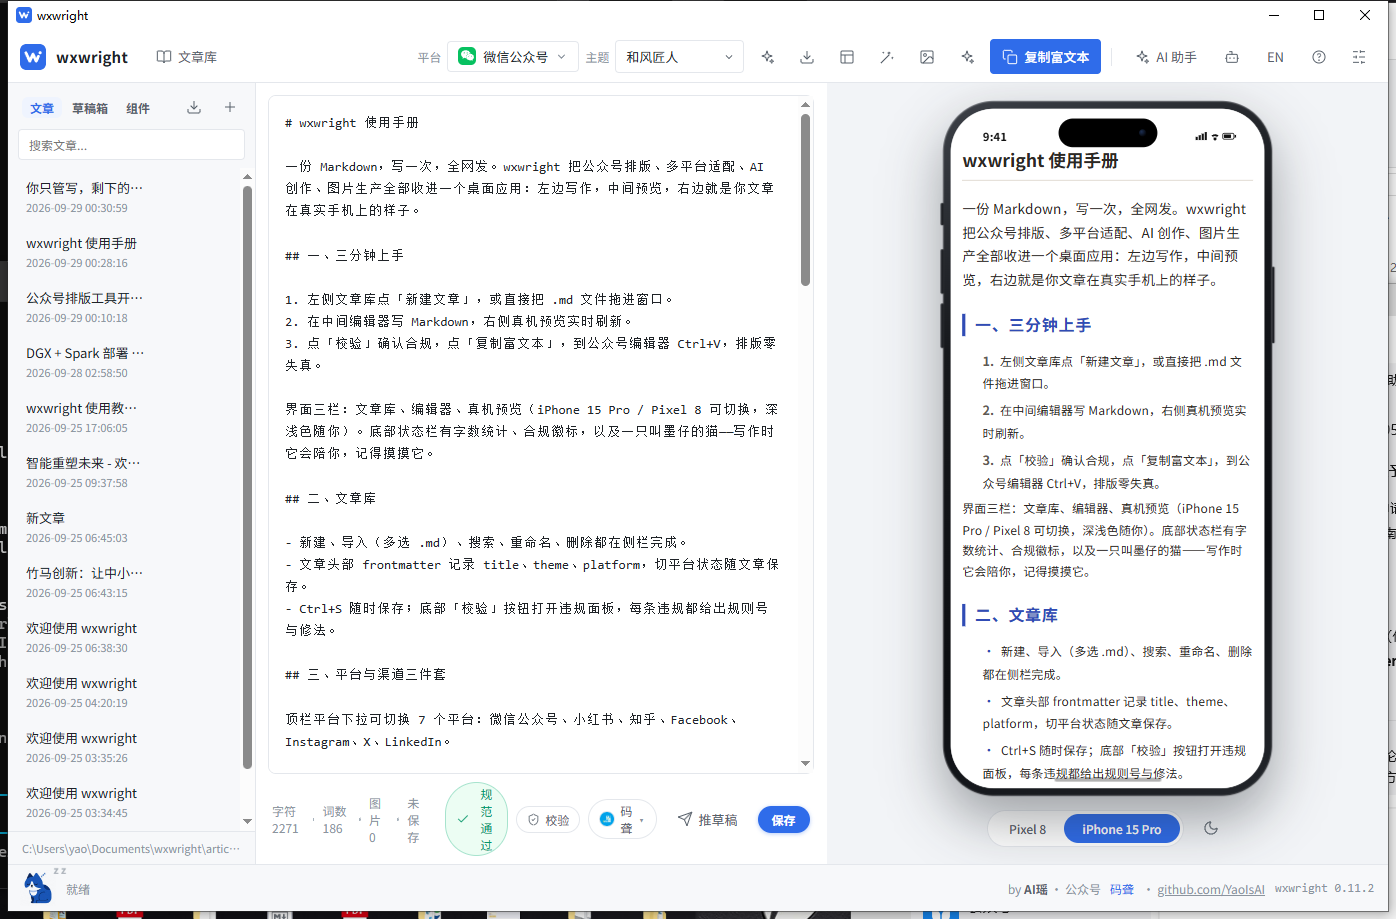
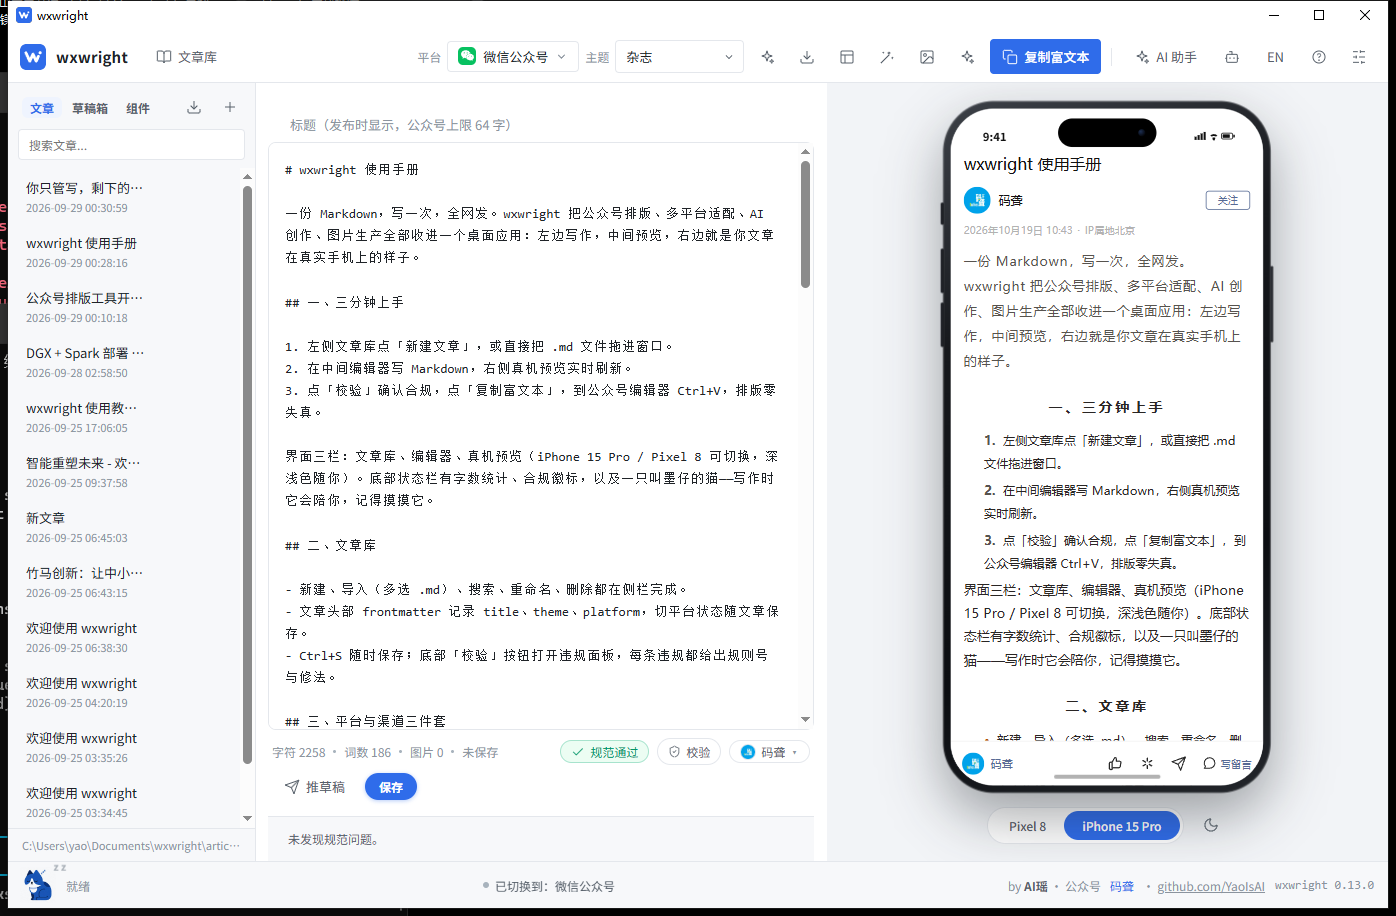
feat: 1:1 WeChat article mock - title header, account row, engagement bar (v0.14.0)
- the WeChat phone preview now renders the real article page: title,
  account row (bound avatar + nickname, author slot, Follow), publish
  time + IP line, body, and the fixed bar with logo/name left and
  like / recommend / share / write-comment right
- title dedup: a first H1 equal to the title field drops from the
  preview source only, so the title never shows twice
- Xiaohongshu gains the comment block, edited-date/IP line and the full
  bottom action row; Instagram gains carousel dots
- stale preview conversions can no longer paint: each conversion is
  sequenced and a superseded result is discarded
- demo mode renders through the same article shell; platform-xhs.png
  and hero.png retaken

diff --git a/gui/ui/app.js b/gui/ui/app.js
@@ -9,7 +9,7 @@ const listen = window.__TAURI__ ? window.__TAURI__.event.listen : null;
 
 /// GUI version - the single frontend source of truth (about lines + status
 /// bar). Bump together with Cargo.toml and tauri.conf.json.
-const GUI_VERSION = "0.13.0";
+const GUI_VERSION = "0.14.0";
 
 /* ------------------------------------------------------------------ i18n */
 const I18N = {
@@ -460,26 +460,93 @@ function applyI18n() {
 }
 
 /* -------------------------------------------------------------- preview */
-function wrapPreviewHtml(dialect) {
+/// Real current time in the MP article format ("2026年10月18日 08:30").
+function wxArticleDate() {
+  const d = new Date();
+  const pad = (n) => String(n).padStart(2, "0");
+  const hm = `${pad(d.getHours())}:${pad(d.getMinutes())}`;
+  return lang === "zh-CN"
+    ? `${d.getFullYear()}年${d.getMonth() + 1}月${d.getDate()}日 ${hm}`
+    : `${d.toLocaleDateString("en-US", { year: "numeric", month: "short", day: "numeric" })} ${hm}`;
+}
+/// Identity of the active WeChat account for the article shell (real nickname
+/// + avatar when bound, sample persona otherwise).
+function wxShellIdentity() {
+  const acc = ((wxStatusCache && wxStatusCache.accounts) || []).find((a) => a.active);
+  if (!acc) return null;
+  return { name: accountDisplayName(acc), avatar: acc.avatar || null };
+}
+/// The article shell renders the title as the page header; a first H1 that
+/// repeats it would show twice. Drop that line from the PREVIEW source only
+/// (stats and saved markdown keep every character).
+function previewMarkdown(md) {
+  const title = (currentTitle() || "").trim();
+  if (!title) return md;
+  const m = md.match(/^[ \t]*#[ \t]+([^\n]+)\r?\n?/);
+  if (m && m[1].trim() === title) {
+    return md.slice(0, m.index) + md.slice(m.index + m[0].length);
+  }
+  return md;
+}
+function wrapPreviewHtml(dialect, meta = {}) {
+  const S = shellStr();
+  const id = wxShellIdentity();
+  const name = meta.account || (id && id.name) || S.persona;
+  const avatarSrc = meta.avatar || (id && id.avatar) || null;
+  const avatar = (size) =>
+    avatarSrc
+      ? `<img src="${avatarSrc}" alt="" style="flex:none;width:${size}px;height:${size}px;border-radius:50%;object-fit:cover;" />`
+      : shellAvatar(size);
   // one-shot landing pulse on the newest last block after AI insert/replace
   const pulse = aiLanding
-    ? `<style>
+    ? `
   @keyframes wxland{0%{box-shadow:inset 4px 0 0 0 var(--accent,#2F6CEA);background:rgba(47,108,234,.10);transform:translateY(6px);opacity:.2}
     60%{box-shadow:inset 4px 0 0 0 var(--accent,#2F6CEA);background:rgba(47,108,234,.08)}
     100%{box-shadow:none;background:transparent;transform:none;opacity:1}}
-  body>*:last-child{animation:wxland 1.5s ease both;border-radius:6px;}
-</style>`
+  .wx-content>*:last-child{animation:wxland 1.5s ease both;border-radius:6px;}
+`
     : "";
   aiLanding = false;
-  return `<!doctype html><html><head><meta charset="utf-8">
-<style>
-  html,body{margin:0;padding:0;background:#fff;}
-  body{padding:16px 14px;word-break:break-word;}
-  section{max-width:100%;}
-  /* phone-realistic: no visible scrollbars */
-  ::-webkit-scrollbar{width:0;height:0;display:none;}
-  html{scrollbar-width:none;}
-</style>${pulse}</head><body>${dialect}</body></html>`;
+  return shellDoc(
+    `
+    ::-webkit-scrollbar{width:0;height:0;display:none;}
+    html{scrollbar-width:none;}
+    body{background:#fff;word-break:break-word;color:#333;}
+    .wx-title{font-size:20px;font-weight:500;color:#111;line-height:1.4;margin:0;padding:22px 16px 0;}
+    .wx-author{display:flex;align-items:center;gap:10px;padding:14px 16px 0;}
+    .wx-nick{font-size:15px;font-weight:500;color:#111;}
+    .wx-follow{font-size:13px;color:#576b95;border:1px solid #576b95;border-radius:4px;padding:3px 14px;flex:none;}
+    .wx-date{font-size:13px;color:#B2B2B2;padding:12px 16px 14px;}
+    .wx-content{padding:2px 16px 8px;}
+    .wx-content section{max-width:100%;}
+    .wx-bar{position:fixed;left:0;right:0;bottom:0;background:#fff;border-top:1px solid rgba(0,0,0,0.08);display:flex;align-items:center;padding:0 14px;height:56px;box-sizing:border-box;}
+    .wx-bar .act{display:flex;align-items:center;justify-content:center;margin-left:19px;flex:none;}
+    ${pulse}
+  `,
+    `
+    ${shellTop("#FFFFFF")}
+    <h1 class="wx-title">${escapeHtml(meta.title || "")}</h1>
+    <div class="wx-author">
+      ${avatar(34)}
+      <div style="flex:1;min-width:0;">
+        <div class="wx-nick">${escapeHtml(name)}</div>
+        ${meta.author ? `<div style="font-size:12px;color:#B2B2B2;margin-top:1px;">${escapeHtml(meta.author)}</div>` : ""}
+      </div>
+      <span class="wx-follow">${S.follow}</span>
+    </div>
+    <div class="wx-date">${wxArticleDate()}<span style="margin:0 6px;">·</span>${S.ip}</div>
+    <div class="wx-content">${dialect}</div>
+    <div style="height:80px;"></div>
+    <div class="wx-bar">
+      ${avatar(28)}
+      <span style="font-size:14px;color:#576b95;margin-left:8px;white-space:nowrap;overflow:hidden;text-overflow:ellipsis;">${escapeHtml(name)}</span>
+      <span style="flex:1;"></span>
+      <span class="act">${shellIcon("thumb", 21, "#262626")}</span>
+      <span class="act">${shellIcon("wow", 21, "#262626", { sw: 1.9 })}</span>
+      <span class="act">${shellIcon("send", 20, "#262626")}</span>
+      <span class="act" style="gap:5px;">${shellIcon("chat", 19, "#262626")}<span style="font-size:13px;color:#576b95;">${S.write}</span></span>
+    </div>
+  `);
 }
 function updateStats(stats, violations) {
   $("stat-chars").textContent = `${t("chars")} ${stats.chars}`;
@@ -522,7 +589,10 @@ function renderViolationsPanel(violations) {
     )
     .join("");
 }
+let convertSeq = 0; // monotonically increasing; stale conversions must not paint
 async function convertNow() {
+  const seq = ++convertSeq;
+  const stale = () => seq !== convertSeq;
   const md = $("editor").value;
   if (!invoke) {
     // Browser demo: channel shells still render so every platform shape is
@@ -539,7 +609,27 @@ async function convertNow() {
           });
     } else {
       try {
-        $("preview").srcdoc = await fetch("demo-preview.html").then((r) => r.text());
+        // same 1:1 article shell as the desktop, fed by the static dialect;
+        // its first section is the sample article's H1 - drop it when it
+        // repeats the title, exactly like the desktop preview does
+        const demo = await fetch("demo-preview.html").then((r) => r.text());
+        if (stale()) return;
+        let body = demo.match(/<body[^>]*>([\s\S]*)<\/body>/i);
+        body = body ? body[1] : demo;
+        // unwrap the export wrapper (max-width section), then drop the
+        // sample's H1 when it repeats the title - like the desktop preview
+        const outer = body.match(/^\s*<section[^>]*max-width[^>]*>([\s\S]*)<\/section>\s*$/);
+        if (outer) body = outer[1];
+        const first = body.match(/^\s*<section[^>]*>([\s\S]*?)<\/section>/);
+        if (first) {
+          const text = first[1].replace(/<[^>]*>/g, "").trim();
+          if (text === currentTitle().trim()) {
+            body = body.slice(first[0].length);
+          }
+        }
+        $("preview").srcdoc = wrapPreviewHtml(body, {
+          title: currentTitle(),
+        });
         updateRuleChip([]);
       } catch (e) {}
     }
@@ -558,14 +648,19 @@ async function convertNow() {
     // the compliance normalizer + validator, no template render
     if (articleFormat === "html") {
       const res = await invoke("html_preview", { html: md });
+      if (stale()) return;
       lastResult = res;
-      $("preview").srcdoc = wrapPreviewHtml(res.html);
+      $("preview").srcdoc = wrapPreviewHtml(res.html, { title: currentTitle() });
       updateStats(res.stats, res.violations);
       if (!$("violations-panel").hidden) renderViolationsPanel(res.violations);
       $("status-text").textContent = t("ready");
       return;
     }
-    const res = await invoke("convert_preview", { markdown: md, themeId: currentTheme });
+    // the WeChat shell carries the title as the page header - a first H1
+    // identical to it is dropped from the preview source (title dedup)
+    const src = currentPlatform === "wechat" ? previewMarkdown(md) : md;
+    const res = await invoke("convert_preview", { markdown: src, themeId: currentTheme });
+    if (stale()) return; // a newer conversion (platform/typing) superseded this one
     lastResult = res;
     // channel preview: same article, the target platform's own layout
     if (currentPlatform !== "wechat") {
@@ -579,11 +674,12 @@ async function convertNow() {
         invoke("platform_preview", { ...args, themeId: currentTheme }).catch(() => null),
         invoke("platform_validate", { ...args, images: res.stats.images || 0 }).catch(() => null),
       ]);
+      if (stale()) return;
       $("preview").srcdoc = model
         ? (model.mode === "note"
           ? renderChannelShell(model.platform, model)
           : zhihuArticleShell(model.html))
-        : wrapPreviewHtml(res.html); // fall back to dialect
+        : wrapPreviewHtml(res.html, { title: currentTitle() }); // fall back to dialect
       updateStats(res.stats, res.violations);
       if (pv) {
         // platform rule table replaces the dialect verdict for non-WeChat targets
@@ -591,7 +687,7 @@ async function convertNow() {
         if (!$("violations-panel").hidden) renderViolationsPanel(pv.violations || []);
       }
     } else {
-      $("preview").srcdoc = wrapPreviewHtml(res.html);
+      $("preview").srcdoc = wrapPreviewHtml(res.html, { title: currentTitle() });
       updateStats(res.stats, res.violations);
     }
     if (currentPlatform === "wechat" && !$("violations-panel").hidden) {
@@ -2489,6 +2585,8 @@ const SHELL_ICONS = {
   chart: "M4.5 20v-9m6 9V4m6 16v-6",
   search: "M10.5 17a6.5 6.5 0 1 0 0-13 6.5 6.5 0 0 0 0 13Zm9.5 3.5L15.5 16",
   dots: "M5 12h.01M12 12h.01M19 12h.01",
+  /* 在看/推荐: the six-ray flower WeChat uses for its "wow" mark */
+  wow: "M12 4.5v4.2M12 15.3v4.2M5.7 8.25l3.64 2.1M14.66 13.65l3.64 2.1M5.7 15.75l3.64-2.1M14.66 10.35l3.64-2.1",
 };
 function shellIcon(name, size, color, opts = {}) {
   const fill = opts.filled ? color : "none";
@@ -2541,6 +2639,9 @@ function shellStr() {
     views: "14.2万 次浏览", likesCount: "1,284 次赞", viewAll: "查看全部 45 条评论",
     reactionN: "128", fbCounts: "12 条评论 · 3 次分享", liCounts: "45 条评论 · 12 次转发",
     copyright: "著作权归作者所有",
+    ip: "IP属地北京", write: "写留言",
+    cmtCount: "共 45 条评论", cmtName1: "设计师小鹿", cmtText1: "排版细节讲得太清楚了，收藏！",
+    cmtReply: "回复", cmtName2: "夜航西飞", cmtText2: "标题独立成字段这个设计很贴心", cmtOpen: "查看全部 45 条评论",
   };
   return lang === "zh-CN" ? zh : {
     follow: "Follow", like: "Like", comment: "Comment", share: "Share", repost: "Repost",
@@ -2551,6 +2652,9 @@ function shellStr() {
     views: "142K views", likesCount: "1,284 likes", viewAll: "View all 45 comments",
     reactionN: "128", fbCounts: "12 comments · 3 shares", liCounts: "45 comments · 12 reposts",
     copyright: "All rights reserved",
+    ip: "IP location Beijing", write: "Comments",
+    cmtCount: "45 comments", cmtName1: "designdeer", cmtText1: "Crystal clear on layout details - saved!",
+    cmtReply: "Reply", cmtName2: "nightflight", cmtText2: "The dedicated title field is a nice touch", cmtOpen: "View all 45 comments",
   };
 }
 
@@ -2585,7 +2689,22 @@ function xhsNoteShell(model) {
     <div style="padding:12px 14px 0;">
       <div style="font-size:16px;font-weight:700;color:#333;line-height:1.45;">${escapeHtml(model.title || "")}</div>
       <div style="font-size:15px;color:#333;line-height:1.7;margin-top:8px;">${shellCaption(cap, accent)}</div>
-      <div style="font-size:12px;color:#999;margin-top:10px;">${S.edited}</div>
+      <div style="font-size:12px;color:#999;margin-top:10px;">${S.edited} · ${S.ip}</div>
+      <div style="background:#F8F8F8;border-radius:10px;padding:12px 12px 10px;margin-top:12px;">
+        <div style="font-size:13px;color:#999;">${S.cmtCount}</div>
+        ${[[S.cmtName1, S.cmtText1], [S.cmtName2, S.cmtText2]].map(([n, c]) => `
+          <div style="display:flex;gap:8px;margin-top:10px;">
+            <span style="flex:none;width:26px;height:26px;border-radius:50%;background:linear-gradient(135deg,#FFB199,#FF2442);"></span>
+            <div style="flex:1;min-width:0;">
+              <div style="font-size:13px;color:#999;">${n}</div>
+              <div style="font-size:14px;color:#333;line-height:1.5;margin-top:2px;">${c}</div>
+              <div style="display:flex;align-items:center;gap:10px;font-size:11px;color:#999;margin-top:4px;">
+                <span>${S.date}</span><span>${S.cmtReply}</span><span style="margin-left:auto;">${shellIcon("heart", 12, "#999")}</span>
+              </div>
+            </div>
+          </div>`).join("")}
+        <div style="font-size:12px;color:#999;margin-top:10px;border-top:1px solid #ECECEC;padding-top:8px;">${S.cmtOpen}</div>
+      </div>
     </div>
     <div style="height:64px;"></div>
     <div style="position:fixed;left:0;right:0;bottom:0;background:#fff;border-top:1px solid #F3F3F3;display:flex;align-items:center;gap:8px;padding:8px 12px;">
@@ -2594,10 +2713,10 @@ function xhsNoteShell(model) {
       <span style="background:${accent};color:#fff;font-size:12px;font-weight:600;padding:3px 12px;border-radius:999px;flex:none;">${S.follow}</span>
       <span style="flex:1;"></span>
       <span style="background:#F5F5F5;color:#999;font-size:12px;padding:6px 12px;border-radius:999px;flex:none;">${S.say}</span>
-      ${shellIcon("heart", 19, "#333", { filled: true })}
-      <b style="font-size:12px;color:#333;font-weight:600;">1.2k</b>
-      ${shellIcon("star", 19, "#333")}
-      <b style="font-size:12px;color:#333;font-weight:600;">856</b>
+      <span style="display:flex;align-items:center;gap:3px;">${shellIcon("heart", 19, "#333", { filled: true })}<b style="font-size:12px;color:#333;font-weight:600;">1.2k</b></span>
+      <span style="display:flex;align-items:center;gap:3px;">${shellIcon("star", 19, "#333")}<b style="font-size:12px;color:#333;font-weight:600;">856</b></span>
+      <span style="display:flex;align-items:center;gap:3px;">${shellIcon("chat", 19, "#333")}<b style="font-size:12px;color:#333;font-weight:600;">45</b></span>
+      ${shellIcon("send", 19, "#333")}
     </div>`);
 }
 
@@ -2697,6 +2816,7 @@ function instagramShell(model) {
       <span style="margin-left:auto;">${shellIcon("dots", 15, "#000", { sw: 2.6 })}</span>
     </div>
     ${shellMedia(imgs, "4 / 5", model.title, "#DD2A7B", model.caption)}
+    ${imgs.length > 1 ? `<div style="display:flex;gap:4px;justify-content:center;padding:8px 0 0;">${imgs.slice(0, 9).map((_, i) => `<i style="width:5px;height:5px;border-radius:50%;background:${i === 0 ? "#0095F6" : "#C7C7C7"};display:block;"></i>`).join("")}</div>` : ""}
     <div style="display:flex;align-items:center;gap:16px;padding:10px 12px 4px;">
       ${shellIcon("heart", 24, "#000")}
       ${shellIcon("chat", 24, "#000")}

diff --git a/gui/ui/index.html b/gui/ui/index.html
@@ -876,6 +876,6 @@
   <script src="pet.js?v=20"></script>
   <script src="brand-logos.js?v=19"></script>
   <script src="ai-jobs.js?v=20"></script>
-  <script src="app.js?v=54"></script>
+  <script src="app.js?v=55"></script>
 </body>
 </html>

diff --git a/README.md b/README.md
@@ -141,7 +141,7 @@ The GUI adds an **AI theme generator**: describe a style ("deep-space cyberpunk,
 - **AI theme generator**: describe a style, get a brand-new theme validated against the official rules and saved for CLI + GUI.
 - **Poster Studio**: HTML -> PNG locally (SVG foreignObject, offline) with all standard MP cover sizes; AI can generate the poster HTML; export-and-insert into the article.
 - **Interactive SVG kit (sidebar)**: the article library's Components tab keeps 8 classic tap-to-animate WeChat SVG components at hand - slide card, envelope reveal, fade-in slogan, A/B swap, progress fill and more - as full-width thumbnail cards with one-click insert (undoable), an accordion editor with live animated preview, category filters, pin-to-top and recent-use ordering. AI generates brand-new components that ship with a parameter table (tweak the text / colors / image slots into a new variant), and image slots take an upload or an AI-generated picture; a blank editor links straight into the kit. SMIL animations follow the official R-1.7 tap rule; the engine re-validates on insert.
-- **Realistic device frames**: iPhone 15 Pro (Dynamic Island, physical side keys, home indicator) and Pixel 8 (punch-hole) rendered as true hardware with an under-device switcher; dark/light toggle sits next to it. The preview scales to fit while keeping the real logical resolution.
+- **Realistic device frames**: iPhone 15 Pro (Dynamic Island, physical side keys, home indicator) and Pixel 8 (punch-hole) rendered as true hardware with an under-device switcher; dark/light toggle sits next to it. The preview scales to fit while keeping the real logical resolution. Each platform renders its real article page 1:1 — WeChat shows title → account row (bound avatar + nickname) → time/IP line → body → the bottom bar (logo, name, like / recommend / share / comment); Xiaohongshu shows cover carousel, comment block and its own action row — so you judge the final look in the app, not by test-publishing.
 - **Asset library**: posters, AI paintings, pasted screenshots and dropped images all land in one managed grid (`Documents/wxwright/assets`) - thumbnail browse, one-click insert into the article, delete.
 - **ComfyUI integration (local AI painting)**: wxwright auto-detects a locally running ComfyUI (default `127.0.0.1:8188`, configurable in Settings). When present, the wand button drives its API for text-to-image and image-to-image (SD workflows, queue + history polling), and outputs flow straight into the asset library and the article. The checkpoint name pulls the live model list for click-to-pick, and the launcher path gets a native file picker. No cloud, no keys.
 - **Multiple WeChat accounts, one-click switching**: bind any number of Official Accounts (optional label; nickname + logo avatar are fetched automatically), and switch the active account from the avatar next to the push button - draft pushes, image uploads and the drafts box all follow it. Each account's secret lives in its own keychain slot.

diff --git a/CHANGELOG.md b/CHANGELOG.md
@@ -8,6 +8,37 @@ This project had no git history when the changelog was normalized (2026-09-25),
 so earlier entries describe the feature set as it stood rather than an
 invented commit timeline. `docs/` is the source of truth for the current spec.
 
+## [0.14.0] - 2026-10-19
+
+### Added
+- **The WeChat phone mock renders the real article page, not just the body.**
+  The preview now mirrors what a reader sees on weixin: title header, the
+  account row (avatar + nickname from the active bound account, author slot,
+  Follow button), publish time with IP-location line, the article body, and
+  the fixed bottom bar - account logo + name on the left, 赞 / 推荐 / 分享 /
+  写留言 on the right. Users can judge the final look in the app instead of
+  test-publishing.
+- **Title dedup in the preview.** The shell carries the title as the page
+  header; a first `# H1` identical to it is dropped from the preview source
+  (stats and saved markdown keep every character) so the title never shows
+  twice.
+- **Xiaohongshu note page fidelity.** The mock gains the comment block
+  (count + sample comments + view-all row), the edited-date/IP line, and
+  the complete bottom action row (like / collect / comment counts + share).
+- **Instagram carousel dots** for multi-image posts.
+
+### Changed
+- The demo (browser) mode renders through the same 1:1 WeChat article shell
+  instead of a flat static page.
+- Platform preview screenshots (`docs/screenshots/platform-xhs.png`,
+  `hero.png`) retaken against the new shells.
+
+### Fixed
+- **Stale preview conversions can no longer paint.** Rapid platform switches
+  fired overlapping conversions and a slower older one could overwrite the
+  newer selection's preview; each conversion now carries a sequence number
+  and a superseded result is discarded.
+
 ## [0.13.0] - 2026-10-19
 
 ### Added
